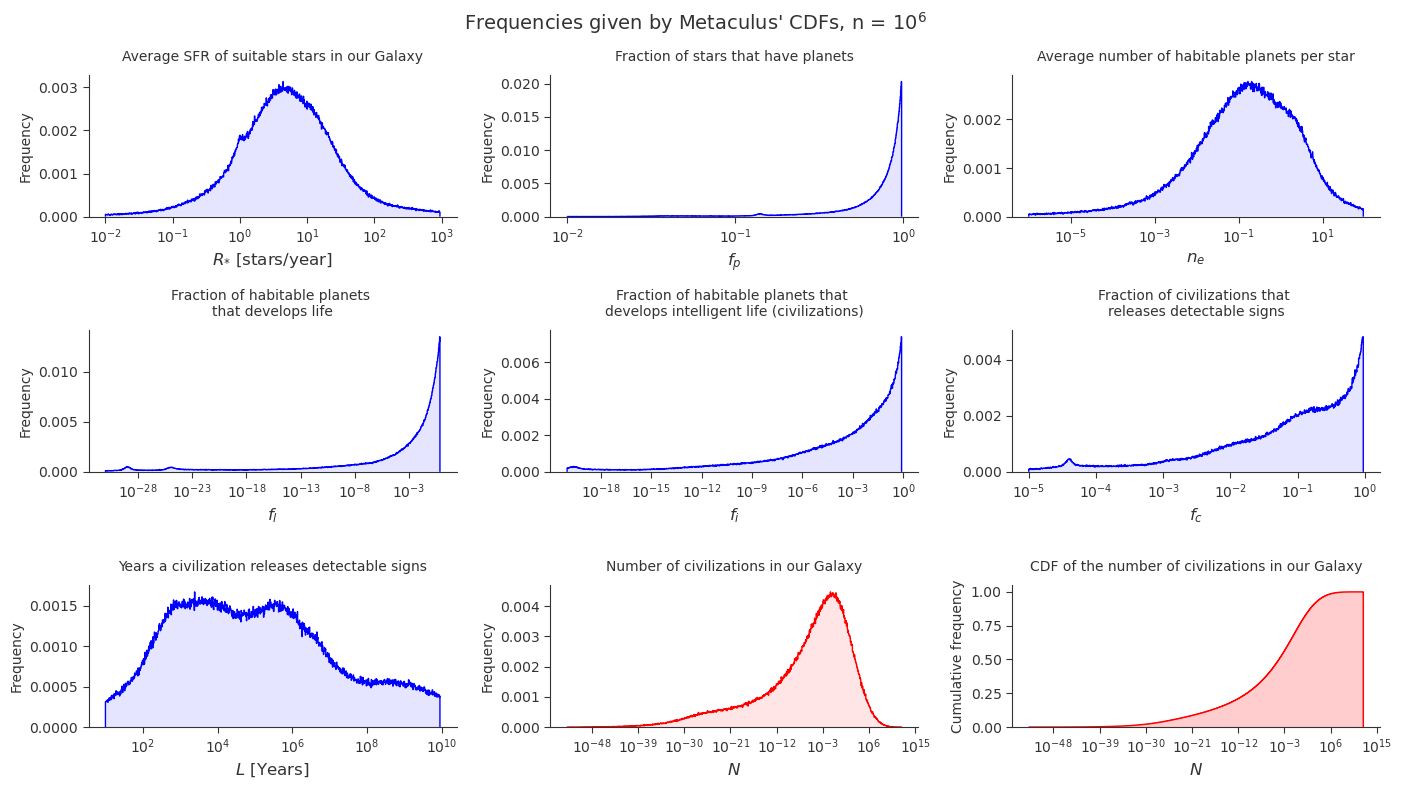
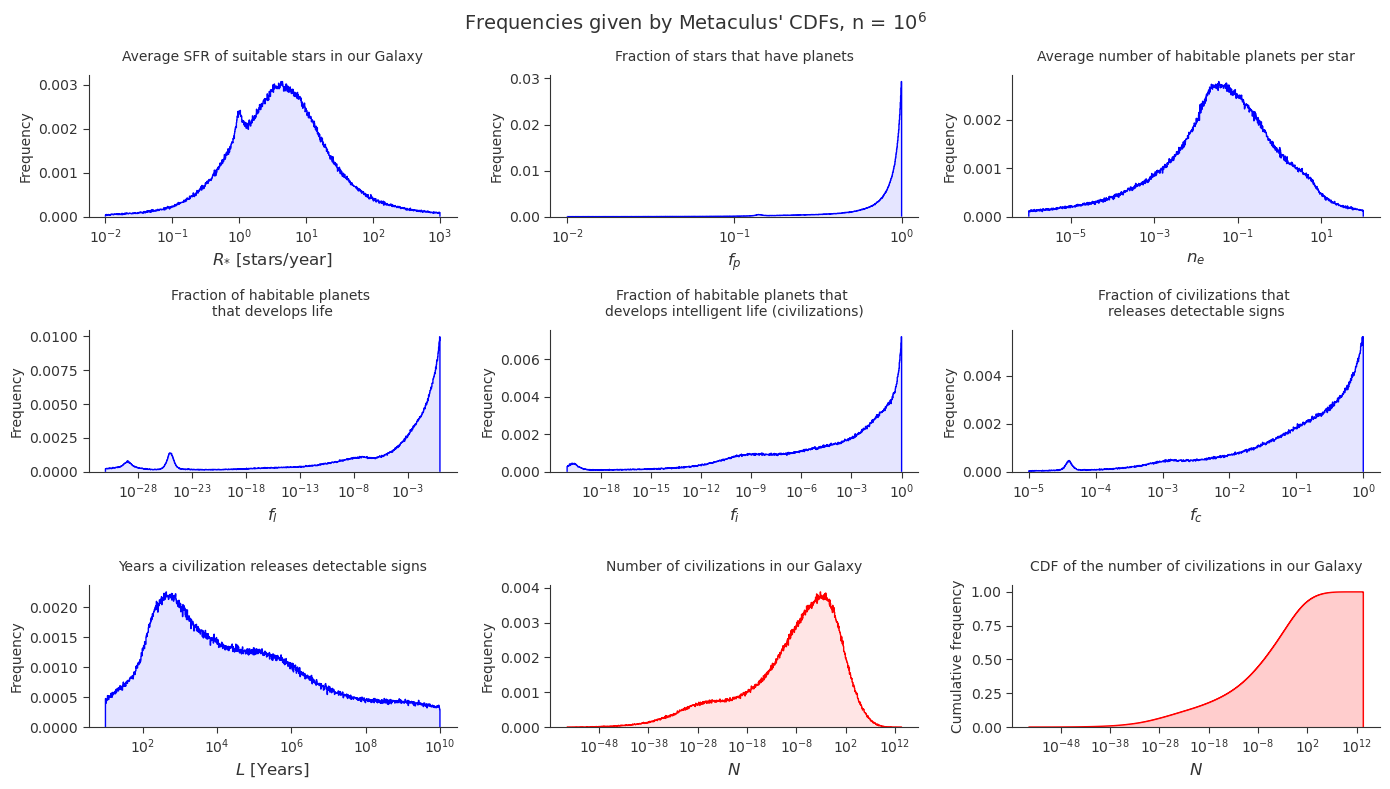
Updated data reading
Metaculus updated their website and things changed. I changed the way to read data, now from a JSON format.

diff --git a/Drake_Metaculus.py b/Drake_Metaculus.py
@@ -4,54 +4,78 @@ import matplotlib.pyplot as plt
 from scipy.integrate import simpson
 from scipy import interpolate as inter
 from scipy.stats import gaussian_kde
+from scipy import stats
+from scipy import interpolate
 from statsmodels.distributions.empirical_distribution import ECDF
-
+import requests
 #-------------------------------------------------------------------------------------------
 #-------------------------------------------------------------------------------------------
 print("Hello. Starting!")
 
-# urls of the csv data from the API
-url_Rs = "https://www.metaculus.com/api2/questions/1337/download_csv/"
-url_fp = "https://www.metaculus.com/api2/questions/1338/download_csv/"
-url_ne = "https://www.metaculus.com/api2/questions/1339/download_csv/"
-url_fl = "https://www.metaculus.com/api2/questions/1340/download_csv/"
-url_fi = "https://www.metaculus.com/api2/questions/1341/download_csv/"
-url_fc = "https://www.metaculus.com/api2/questions/1342/download_csv/"
-url_L  = "https://www.metaculus.com/api2/questions/1343/download_csv/"
+# URLs of the CSV data from the API
+url_Rs = "https://www.metaculus.com/api2/questions/1337"
+url_fp = "https://www.metaculus.com/api2/questions/1338"
+url_ne = "https://www.metaculus.com/api2/questions/1339"
+url_fl = "https://www.metaculus.com/api2/questions/1340"
+url_fi = "https://www.metaculus.com/api2/questions/1341"
+url_fc = "https://www.metaculus.com/api2/questions/1342"
+url_L  = "https://www.metaculus.com/api2/questions/1343"
 
 #-------------------------------------------------------------------------------------------
 #-------------------------------------------------------------------------------------------
 # function to read, format, reduce, and transform the data
-def cdf_setter(url, xmin, xmax, q = 1000):
+def data_parser(url, xmin, xmax, q = 1000):
 
-     # dataframe for later use
-     cdf_f = pd.DataFrame()
+     #--------------------------------------------
+     # Read the data
+     # Make a GET request to the URL
+     response = requests.get(url)
 
-     # reading data
-     df_f = pd.read_csv(url)
+     # Check if the request was successful
+     if response.status_code == 200:
+          # Parse the JSON content
+          data = response.json()
 
-     # reducing data to just the PDF distribution
-     df_pdf = df_f.iloc[-1, 11:210].reset_index(drop = False)
-     df_pdf.columns = ['x_norm', 'PDF']
+          # Extract the forecast_values array
+          # For time weighted values
+          forecast_values = data['question']['aggregations']['recency_weighted']['latest']['forecast_values']
+          # For NOT time weighted values (but strange)
+          #forecast_values = data['question']['aggregations']['metaculus_prediction']['latest']['forecast_values']
 
-     df_pdf["x_norm"] = df_pdf["x_norm"].replace(to_replace = "pdf_at_", value = "", regex = True)
-     df_pdf["x_norm"] = df_pdf["x_norm"].replace(to_replace = "pdf_below_", value = "", regex = True)
-     df_pdf["x_norm"] = df_pdf["x_norm"].replace(to_replace = "or_below_", value = "", regex = True)
+     else:
+          print(f"Failed to retrieve data: Status code {response.status_code}")
+
+     #--------------------------------------------
+     # Get the CDF
+     x_norm = np.linspace(0, 1, len(forecast_values))
+
+     dictionary_cdf = {"x_norm": x_norm,
+                       "CDF": forecast_values}
+     df_cdf = pd.DataFrame(dictionary_cdf)
+     
+     df_cdf["x_norm"] = df_cdf["x_norm"].astype("float")
+     df_cdf["CDF"] = df_cdf["CDF"].astype("float")
+
+     #--------------------------------------------
+     # Get the PDF
+     # Create an interpolation function for the CDF
+     cdf_interp = interpolate.interp1d(x_norm, forecast_values, kind='linear', bounds_error=False, fill_value=(0, 1))
+
+     # Create a finer mesh for smoother plotting
+     x_fine = np.linspace(0, 1, len(forecast_values))
+     cdf_fine = cdf_interp(x_fine)
+
+     # Calculate PDF by numerical differentiation
+     pdf_values = np.gradient(cdf_fine, x_fine)
+
+     dictionary_pdf = {"x_norm": x_fine,
+                       "PDF": pdf_values}
+     df_pdf = pd.DataFrame(dictionary_pdf)
      
      df_pdf["x_norm"] = df_pdf["x_norm"].astype("float")
      df_pdf["PDF"] = df_pdf["PDF"].astype("float")
 
-     # reducing data to just the CDF distribution
-     df_cdf = df_f.iloc[-1, 211:411].reset_index(drop = False)
-     df_cdf.columns = ['x_norm', 'CDF']
-
-     df_cdf["x_norm"] = df_cdf["x_norm"].replace(to_replace = "cdf_at_", value = "", regex = True)
-     df_cdf["x_norm"] = df_cdf["x_norm"].replace(to_replace = "cdf_below_", value = "", regex = True)
-     df_cdf["x_norm"] = df_cdf["x_norm"].replace(to_replace = "or_below_", value = "", regex = True)
-     
-     df_cdf["x_norm"] = pd.to_numeric(df_cdf["x_norm"], errors = 'coerce')
-     df_cdf["CDF"] = df_cdf["CDF"].astype("float")
-
+     #--------------------------------------------
      # Adjusting the CDF to start at 0
      df_cdf['CDF'] -= df_cdf['CDF'].min()
      # Normalizing the CDF to end at 1
@@ -79,7 +103,10 @@ def cdf_setter(url, xmin, xmax, q = 1000):
      # Sampling
      sampled_normalized = inverse_cdf(uniform_samples)
 
+     #---------------------------------------------
      # Filling cdf_f dataframe to be returned
+          # dataframe for later use
+     cdf_f = pd.DataFrame()
      cdf_f["x_log"] = pd.DataFrame(sampled_normalized).apply(lambda x : 10**x )
      cdf_f["cdf_values"] = pd.DataFrame(uniform_samples)
 
@@ -92,19 +119,19 @@ print("Reading and reducing data...")
 
 quantity = 10**6 # quantity of data in the simulation
 
-df_Rs_cdf, df_Rs_pdf = cdf_setter(url = url_Rs, xmin = 0.01, xmax = 1000, q = quantity)
+df_Rs_cdf, df_Rs_pdf = data_parser(url = url_Rs, xmin = 0.01, xmax = 1000, q = quantity)
 print("  Rs done.")
-df_fp_cdf, df_fp_pdf = cdf_setter(url = url_fp, xmin = 0.01, xmax = 1, q = quantity)
+df_fp_cdf, df_fp_pdf = data_parser(url = url_fp, xmin = 0.01, xmax = 1, q = quantity)
 print("  fp done.")
-df_ne_cdf, df_ne_pdf = cdf_setter(url = url_ne, xmin = 10**-6, xmax = 100, q = quantity)
+df_ne_cdf, df_ne_pdf = data_parser(url = url_ne, xmin = 10**-6, xmax = 100, q = quantity)
 print("  ne done.")
-df_fl_cdf, df_fl_pdf = cdf_setter(url = url_fl, xmin = 10**-31, xmax = 1, q = quantity)
+df_fl_cdf, df_fl_pdf = data_parser(url = url_fl, xmin = 10**-31, xmax = 1, q = quantity)
 print("  fl done.")
-df_fi_cdf, df_fi_pdf = cdf_setter(url = url_fi, xmin = 10**-20, xmax = 1, q = quantity)
+df_fi_cdf, df_fi_pdf = data_parser(url = url_fi, xmin = 10**-20, xmax = 1, q = quantity)
 print("  fi done.")
-df_fc_cdf, df_fc_pdf = cdf_setter(url = url_fc, xmin = 10**-5, xmax = 1, q = quantity)
+df_fc_cdf, df_fc_pdf = data_parser(url = url_fc, xmin = 10**-5, xmax = 1, q = quantity)
 print("  fc done.")
-df_L_cdf, df_L_pdf = cdf_setter(url = url_L, xmin = 10, xmax = 10**10, q = quantity)
+df_L_cdf, df_L_pdf = data_parser(url = url_L, xmin = 10, xmax = 10**10, q = quantity)
 print("  L done.")
 
 #-------------------------------------------------------------------------------------------
@@ -577,8 +604,8 @@ ax1.fill_between(points,
 probability_not_alone_MW = (ecdft(10**12) - ecdft(1))*100
 formatted_probability = f"{probability_not_alone_MW:.0f}%"
 text = "Probability of\n NOT being\n  alone in the\n   Milky Way\n    galaxy\n    ($N > 1$): " + formatted_probability
-ax1.text(9*10**1, 0.0033, text, fontsize = 8, color = custom_dark_gray)
-ax1.text(10**1, 0.00025, f'{probability_not_alone_MW:.0f}%', fontsize = 12, color = custom_dark_gray)
+ax1.text(5*10**2, 0.0017, text, fontsize = 8, color = custom_dark_gray)
+ax1.text(3*10**0, 0.00020, f'{probability_not_alone_MW:.0f}%', fontsize = 12, color = custom_dark_gray)
 
 #---------------------------------------
 # Alone in the Galaxy hatch filling and line
@@ -604,8 +631,8 @@ ax1.vlines(x = 1,
 probability_alone_MW = ecdft(1)*100
 formatted_probability = f"{probability_alone_MW:.0f}%"
 text = "Probability of being alone \nin the Milky Way galaxy \n($N < 1$): " + formatted_probability
-ax1.text(10**-29, 0.0025, text, fontsize = 8, color = custom_dark_gray)
-ax1.text(10**-8, 0.0008, f'{probability_alone_MW:.0f}%', fontsize = 12, color = custom_dark_gray)
+ax1.text(5*10**-32, 0.0028, text, fontsize = 8, color = custom_dark_gray)
+ax1.text(5*10**-9, 0.0013, f'{probability_alone_MW:.0f}%', fontsize = 12, color = custom_dark_gray)
 
 #---------------------------------------
 # Alone in the observable Universe hatch filling and line
@@ -631,8 +658,8 @@ ax1.vlines(x = 5*10**-13,
 probability_alone_OU = ecdft(5*10**-13)*100
 formatted_probability = f"{probability_alone_OU:.0f}%"
 text = "Probability of being alone \nin the observable Universe \n($N < 5 \\times 10^{{-13}}$): " + formatted_probability
-ax1.text(10**-47, 0.0005, text, fontsize = 8, color = custom_dark_gray)
-ax1.text(10**-20, 0.00025, f'{probability_alone_OU:.0f}%', fontsize = 12, color = custom_dark_gray)
+ax1.text(10**-51, 0.0008, text, fontsize = 8, color = custom_dark_gray)
+ax1.text(10**-24, 0.00028, f'{probability_alone_OU:.0f}%', fontsize = 12, color = custom_dark_gray)
 
 #-------------------------------------------------------------------------------------------
 # N CDF
@@ -682,7 +709,7 @@ ax2.vlines(x = 1,
 probability_alone_MW = ecdft(1)*100
 formatted_probability = f"{probability_alone_MW:.0f}%"
 text = "Probability of being alone \nin the Milky Way galaxy: \n($N < 1$): " + formatted_probability
-ax2.text(5*10**-23, 0.7, text, fontsize = 8, color = custom_dark_gray)
+ax2.text(5*10**-25, 0.78, text, fontsize = 8, color = custom_dark_gray)
 
 #---------------------------------------
 # Alone in the observable Universe line
@@ -699,7 +726,7 @@ ax2.vlines(x = 5*10**-13,
 probability_alone_OU = ecdft(5*10**-13)*100
 formatted_probability = f"{probability_alone_OU:.0f}%"
 text = "Probability of being alone \nin the observable Universe: \n($N < 5 \\times 10^{{-13}}$): " + formatted_probability
-ax2.text(10**-38, 0.15, text, fontsize = 8, color = custom_dark_gray)
+ax2.text(10**-40, 0.24, text, fontsize = 8, color = custom_dark_gray)
 
 #-------------------------------------------------------------------------------------------
 # Adjusting the vertical and horizontal spacing, so there are no overlapings
